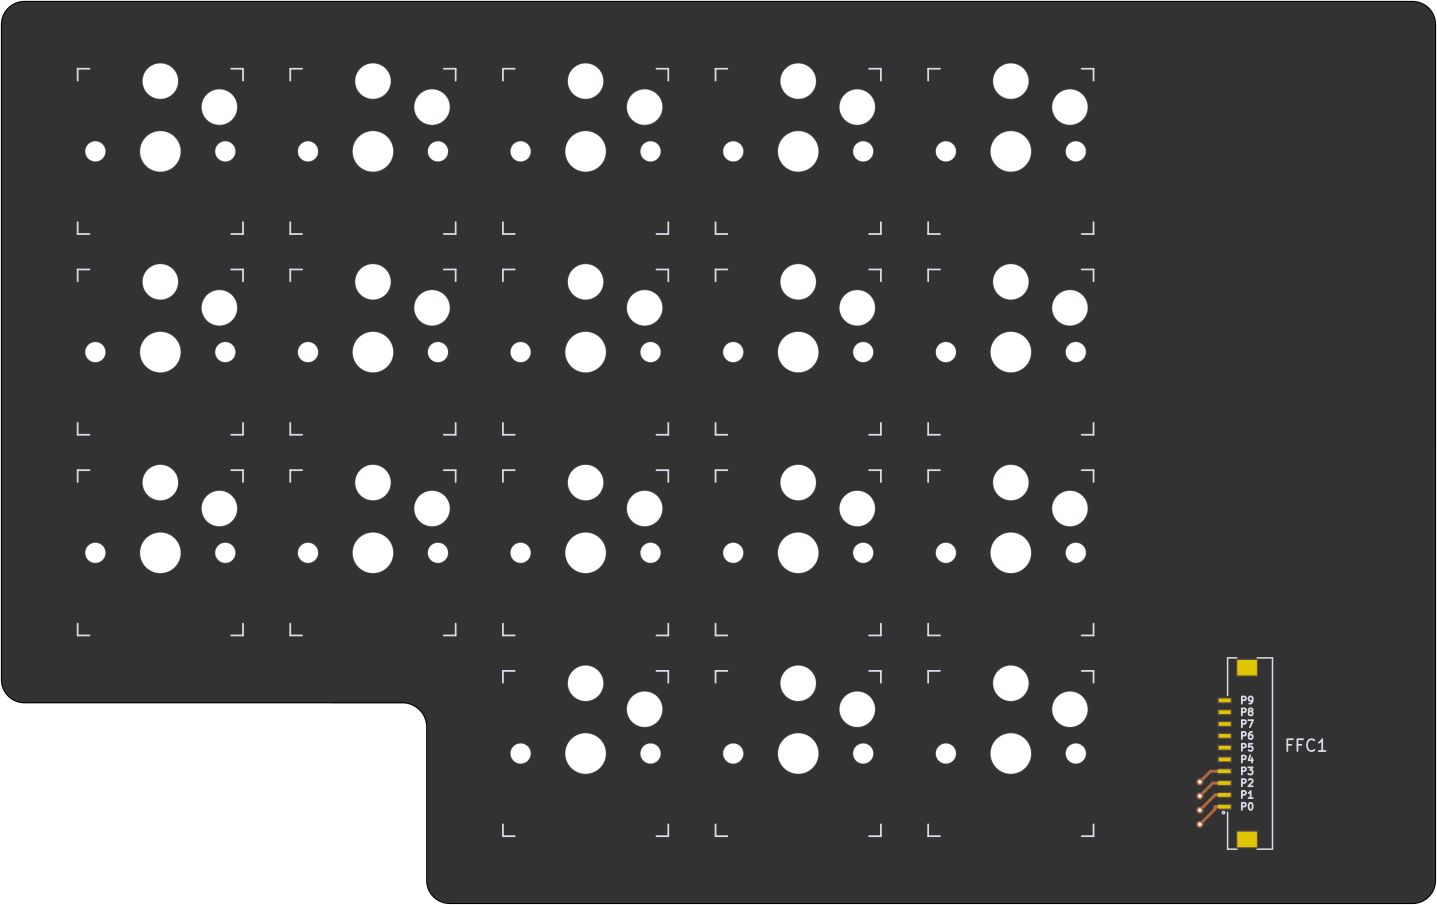
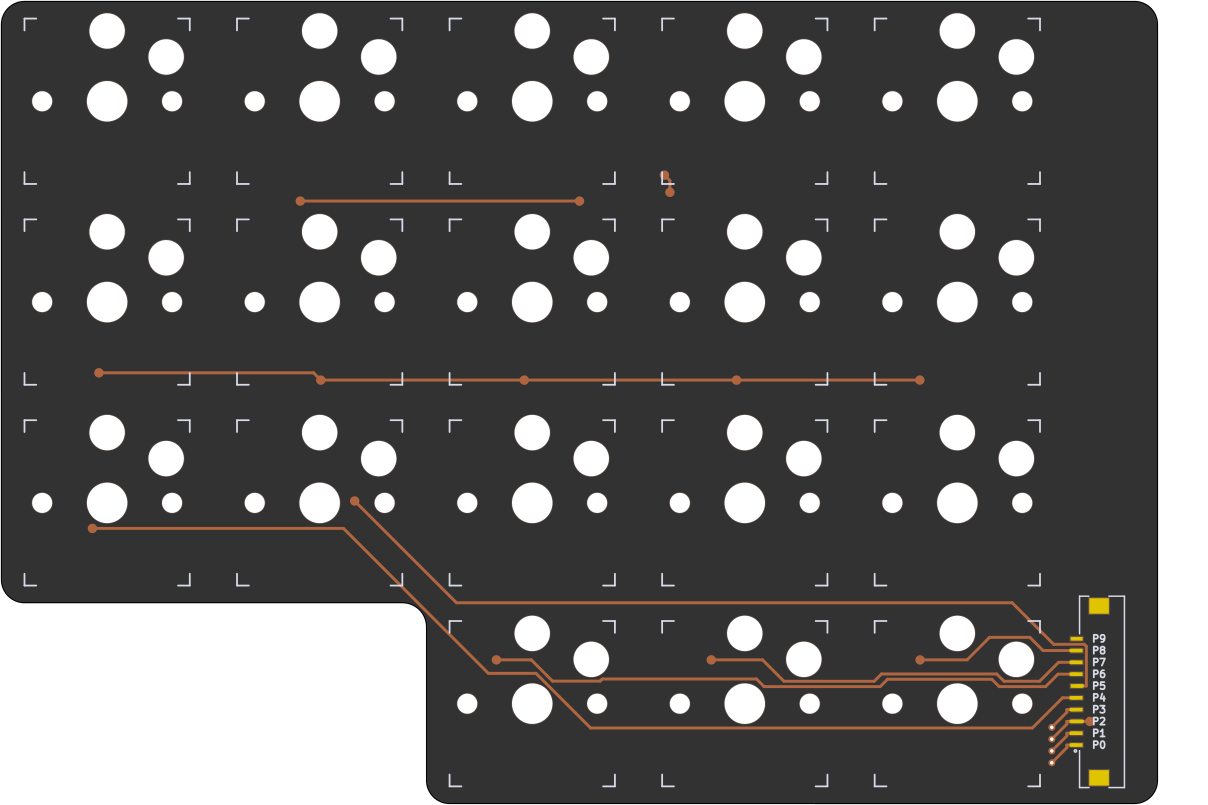
Connects the rows, tightens up the right side of the wing

diff --git a/input/footprints/ffc_connector.js b/input/footprints/ffc_connector.js
@@ -20,8 +20,8 @@ module.exports = {
         ${p.at /* parametric position */}
         (attr virtual)
         
-        (fp_text reference "${p.ref}" (at 0.665 5 0) (layer ${p.side}.SilkS) (effects (font (size 1.0 1.0) (thickness 0.15))))
-        (fp_text value 686110183522 (at 5.17 3.435 0) (layer ${p.side}.Fab) (effects (font (size 1.0 1.0) (thickness 0.15))))
+        (fp_text reference "${p.ref}" (at 0.665 5 0) (layer ${p.side}.SilkS) ${p.ref_hide} (effects (font (size 1.0 1.0) (thickness 0.15))))
+        (fp_text value 686110183522 (at 5.17 3.435 0) (layer ${p.side}.Fab) ${p.ref_hide} (effects (font (size 1.0 1.0) (thickness 0.15))))
         (pad Z1 smd rect (at -7.275 0.0) (size 1.65 1.3) (layers ${p.side}.Cu ${p.side}.Mask ${p.side}.Paste) (solder_mask_margin 0.102))
         (pad Z2 smd rect (at 7.275 0.0) (size 1.65 1.3) (layers ${p.side}.Cu ${p.side}.Mask ${p.side}.Paste) (solder_mask_margin 0.102))
         
